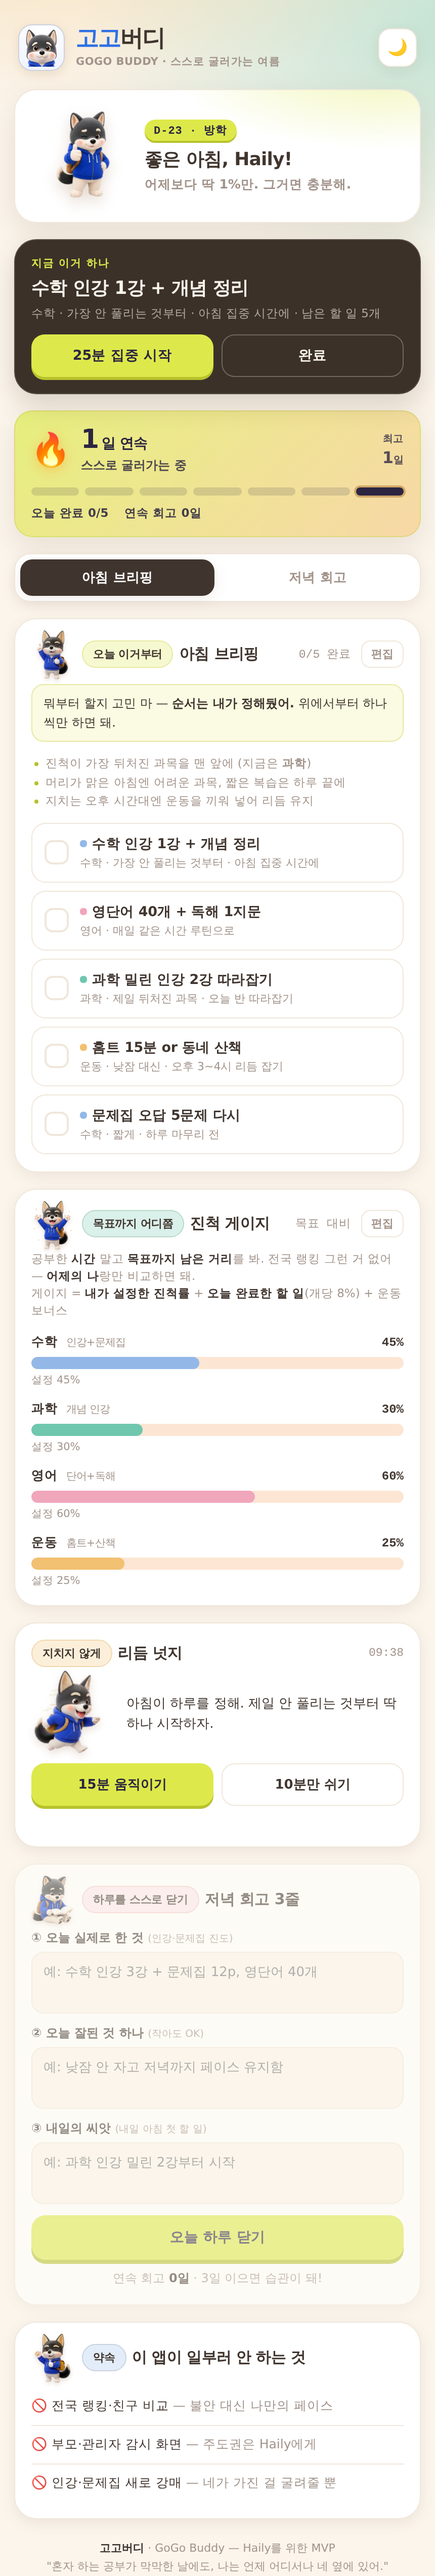
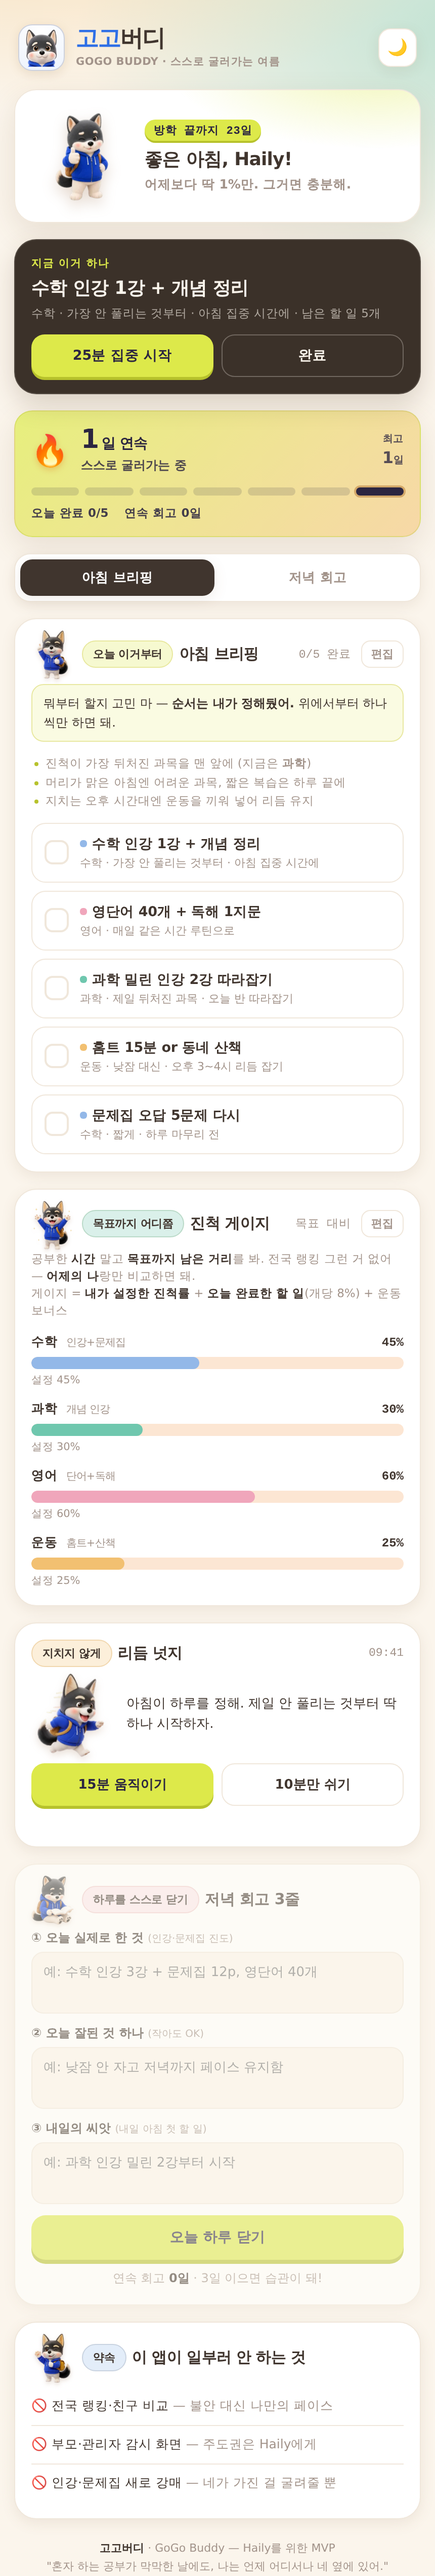
[6조/웃는돌] 고고버디 — 방학 배지 문구 의미 명확화 (#132)
- 'D-23 · 방학'은 '23일 뒤 방학 시작'으로 읽혀 의도와 반대로 전달됨
- '방학 끝까지 23일'로 변경하고, 마지막 날/종료 상태 문구를 분리
- 방학 시작일(7/22)을 반영해 '총 27일 중 4일째'를 툴팁으로 제공

Claude-Session: https://claude.ai/code/session_01Aq5fCgQTr2L5UhckyziSbp

diff --git a/1_mission/6조/웃는돌(장경아)/4주차 과제 제출 폴더/haily-vacation-buddy.html b/1_mission/6조/웃는돌(장경아)/4주차 과제 제출 폴더/haily-vacation-buddy.html
@@ -480,7 +480,7 @@
   <div class="hero">
     <div class="mascot-wrap"><img id="mascot" title="콕 눌러봐!" alt="고고버디 마스코트" /></div>
     <div class="hi">
-      <span class="dday" id="dday">D-27 · 방학</span>
+      <span class="dday" id="dday">방학 끝까지 27일</span>
       <h1 id="greet">좋은 아침, Haily! </h1>
       <p id="greetSub">오늘도 한 칸씩 굴러가 보자.</p>
     </div>
@@ -735,12 +735,21 @@
   function newId(pfx) { return pfx + Date.now().toString(36) + Math.floor(Math.random() * 1e4).toString(36); }
 
   /* ---------- Time / greeting ---------- */
-  var VACATION_END = new Date(2026, 7, 17); // 8/17
+  var VACATION_START = new Date(2026, 6, 22);  // 7/22 방학 시작
+  var VACATION_END = new Date(2026, 7, 17);    // 8/17 방학 마지막 날
   function refreshTime() {
     var now = new Date();
     var h = now.getHours();
-    var dd = Math.max(0, Math.ceil((VACATION_END - now) / 86400000));
-    document.getElementById("dday").textContent = "D-" + dd + " · 방학";
+    var DAY = 86400000;
+    var today = new Date(now.getFullYear(), now.getMonth(), now.getDate());
+    var left = Math.round((VACATION_END - today) / DAY);          // 오늘 이후 남은 날
+    var nth = Math.round((today - VACATION_START) / DAY) + 1;      // 방학 며칠째
+    var total = Math.round((VACATION_END - VACATION_START) / DAY) + 1;
+    var ddayEl = document.getElementById("dday");
+    ddayEl.textContent = left > 0 ? "방학 끝까지 " + left + "일"
+                        : left === 0 ? "방학 마지막 날"
+                        : "방학 끝";
+    ddayEl.title = "여름방학 7/22~8/17 · 총 " + total + "일 중 " + Math.min(Math.max(nth, 1), total) + "일째";
     document.getElementById("nowClock").textContent =
       String(h).padStart(2, "0") + ":" + String(now.getMinutes()).padStart(2, "0");
 
